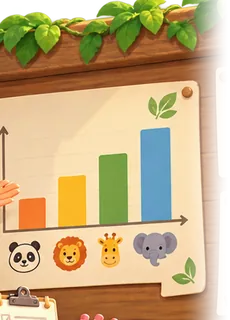
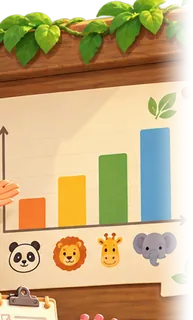
Opgavescenerne skærer ikke længere gennem figurerne
- Zoo-uret: Liv sidder klemt mellem tigeren og løven, så udsnittene skar
  gennem hende og løvens manke (og tog en stump kød med). Nu vises hele
  gruppen – ur, lampe, tiger, Liv, løve og skilt – som én samlet tegning med
  billedets egne kanter; anden variant er uret og foderspanden.
- Indgangen: den første variant er hele porten med Liv og flamingoerne
  samlet; flamingoen i den anden variant står rent ved portstolpen.
- Rettet stumper ved kanterne: Livs fisk (Pingvinbassinet), foderkasserne
  bag giraffen og huskelisten bag pandaen.
- En variant kan nu være én samlet tegning (kun højre side), som må fylde
  båndet; e2e-tjekket af scenen håndterer begge slags.

diff --git a/sw.js b/sw.js
@@ -1,8 +1,8 @@
 // Matematik-Zoo som webapp: appens filer gemmes på enheden, så den starter med det samme
 // og virker uden internet. VERSION og FILES (sti → indholdshash) skrives af tools/deploy.sh.
-const VERSION = '20261005154736';
+const VERSION = '20261005182638';
 const FILES = {
-"css/style.css": "913dcd3c6c",
+"css/style.css": "67b5c844b2",
 "icon-192.png": "8f205bffb7",
 "icon-512.png": "3f4e2cf3bb",
 "icon.png": "cd7043bac8",
@@ -157,12 +157,12 @@ const FILES = {
 "img/task/algebra-1r.webp": "d8592f8779",
 "img/task/algebra-2l.webp": "7cd623451b",
 "img/task/algebra-2r.webp": "25cc06e4e6",
-"img/task/brok-1l.webp": "d2069aef6d",
-"img/task/brok-1r.webp": "7d790514f0",
+"img/task/brok-1l.webp": "0578604174",
+"img/task/brok-1r.webp": "1cf65e9400",
 "img/task/brok-2l.webp": "22253f8a8b",
 "img/task/brok-2r.webp": "a29766c361",
-"img/task/data-1l.webp": "dc489ad109",
-"img/task/data-1r.webp": "6ad7658856",
+"img/task/data-1l.webp": "9eac5c8738",
+"img/task/data-1r.webp": "0406f75bed",
 "img/task/data-2l.webp": "d536496cae",
 "img/task/data-2r.webp": "90e54ea0df",
 "img/task/decimal-1l.webp": "9cd87e5909",
@@ -174,38 +174,36 @@ const FILES = {
 "img/task/division-2l.webp": "0a2df34b39",
 "img/task/division-2r.webp": "0927ba43ec",
 "img/task/gange-1l.webp": "7a48b09ff1",
-"img/task/gange-1r.webp": "a563d3e95d",
+"img/task/gange-1r.webp": "9014d1efea",
 "img/task/gange-2l.webp": "cef0e0987e",
-"img/task/gange-2r.webp": "a7693872e8",
+"img/task/gange-2r.webp": "cead13534d",
 "img/task/geometri-1l.webp": "73c4ecf49a",
 "img/task/geometri-1r.webp": "59d4a51ec5",
 "img/task/geometri-2l.webp": "139d6dd0dd",
 "img/task/geometri-2r.webp": "38779047b4",
-"img/task/maaling-1l.webp": "971145f7ee",
-"img/task/maaling-1r.webp": "c78f66be5c",
+"img/task/maaling-1r.webp": "9a4428a0e7",
 "img/task/maaling-2l.webp": "1ae2518263",
-"img/task/maaling-2r.webp": "ef006ad9ee",
-"img/task/tal-1l.webp": "f4caa0a8cb",
-"img/task/tal-1r.webp": "1b867a0f91",
+"img/task/maaling-2r.webp": "c4f699fd2f",
+"img/task/tal-1r.webp": "aed20958b0",
 "img/task/tal-2l.webp": "039deb28d1",
-"img/task/tal-2r.webp": "8cdca9ff38",
+"img/task/tal-2r.webp": "335c399fe8",
 "img/ui/babyhuset.webp": "3e081d0175",
 "img/ui/lyd.webp": "afa35341d6",
 "img/ui/oevebane.webp": "426efbed3b",
 "img/ui/opgave.webp": "a3fc40a92c",
 "img/ui/zoo-omraade.webp": "95cfcabe7c",
 "img/ui/zoo-runden.webp": "e717e3975d",
-"index.html": "48144c329c",
-"js/app.js": "f4ae1081ba",
-"js/curriculum.js": "fd5206ffe4",
-"js/engine.js": "c28570641a",
+"index.html": "13f32863dc",
+"js/app.js": "ea118b1a5e",
+"js/curriculum.js": "0ef2fd4af7",
+"js/engine.js": "8dbac08ccd",
 "js/fx.js": "d4374ab279",
-"js/map.js": "a5f613f665",
-"js/scene.js": "d30d69e6af",
+"js/map.js": "f73516b725",
+"js/scene.js": "34d761f3de",
 "js/store.js": "e60eddfa18",
 "js/util.js": "183e6761c8",
 "js/visuals.js": "17d49c825e",
-"js/zoo.js": "7351065926",
+"js/zoo.js": "2a9b9e7bfa",
 "manifest.webmanifest": "58cc6e90f1"
 };
 

diff --git a/js/zoo.js b/js/zoo.js
@@ -1,9 +1,9 @@
 // Zoo-universet: figurer, dyreunger, områder, niveauer og beskeder.
 // Se univers-zoo.md. Historien vises kun MELLEM opgaverne – aldrig mens der regnes.
 
-import { AREAS, FACTS } from './curriculum.js?v=20261005154736';
-import * as E from './engine.js?v=20261005154736';
-import { today } from './util.js?v=20261005154736';
+import { AREAS, FACTS } from './curriculum.js?v=20261005182638';
+import * as E from './engine.js?v=20261005182638';
+import { today } from './util.js?v=20261005182638';
 
 // Figurernes tegninger: ansigt (talebobler og kortet) og helfigur (missionernes scener).
 // Bodil har en buste (introen og kortet). Emojien bruges kun som reserve, hvis en tegning mangler.
@@ -35,10 +35,21 @@ export const SCENES = {
 // Opgaveskærmenes scene pr. område (Batch 1, img/task/): kun miljø – opgaven står altid under.
 // Hver variant er [venstre, højre]: dyr og ting, der kigger ind fra hver sin kant af båndet i båndets højde,
 // så de aldrig zoomes ind, uanset hvor bredt båndet er. Opgaverne skifter mellem områdets to varianter.
-// Billederne viser Liv; i områder med en anden figur er udsnittene kun dyr og ting.
+// Kan et billede ikke deles uden at skære gennem en figur (indgangen, Zoo-uret), er varianten én samlet
+// tegning i højre side ('r'). Billederne viser Liv; i områder med en anden figur er udsnittene kun dyr og ting.
 // (Udsnittene laves af tools/opgavescener/ ud fra billeder-raa/batch1-opgavescener/.)
-export const TASK_SCENES = Object.fromEntries(['tal', 'gange', 'division', 'brok', 'decimal', 'geometri', 'maaling', 'data', 'algebra']
-  .map((a) => [a, [1, 2].map((n) => [`img/task/${a}-${n}l.webp`, `img/task/${a}-${n}r.webp`])]));
+const scene = (a, n, sides = 'lr') => ['l', 'r'].map((s) => (sides.includes(s) ? `img/task/${a}-${n}${s}.webp` : null));
+export const TASK_SCENES = {
+  tal: [scene('tal', 1, 'r'), scene('tal', 2)],
+  gange: [scene('gange', 1), scene('gange', 2)],
+  division: [scene('division', 1), scene('division', 2)],
+  brok: [scene('brok', 1), scene('brok', 2)],
+  decimal: [scene('decimal', 1), scene('decimal', 2)],
+  geometri: [scene('geometri', 1), scene('geometri', 2)],
+  maaling: [scene('maaling', 1, 'r'), scene('maaling', 2)],
+  data: [scene('data', 1), scene('data', 2)],
+  algebra: [scene('algebra', 1), scene('algebra', 2)],
+};
 
 // Ekstra zoo-indhold pr. pensumområde (id'erne matcher AREAS i curriculum.js)
 // intro[i] og done[i] er starten og slutningen på tasks[i] ({who} = missionens figur)

diff --git a/js/app.js b/js/app.js
@@ -1,13 +1,13 @@
 // Matematik-Zoo – skærme og interaktion.
 
-import { AREAS, SKILLS, ALL_SKILLS, PRACTICE_SETS, FACTS, factProblem } from './curriculum.js?v=20261005154736';
-import * as E from './engine.js?v=20261005154736';
-import * as Z from './zoo.js?v=20261005154736';
-import { zooGate } from './scene.js?v=20261005154736';
-import { zooMap } from './map.js?v=20261005154736';
-import { sfx, setSound, confetti, countUp } from './fx.js?v=20261005154736';
-import { listProfiles, loadState, saveState, deleteProfile, slug, storageMode, flush } from './store.js?v=20261005154736';
-import { esc, fmt, frac, pick, today } from './util.js?v=20261005154736';
+import { AREAS, SKILLS, ALL_SKILLS, PRACTICE_SETS, FACTS, factProblem } from './curriculum.js?v=20261005182638';
+import * as E from './engine.js?v=20261005182638';
+import * as Z from './zoo.js?v=20261005182638';
+import { zooGate } from './scene.js?v=20261005182638';
+import { zooMap } from './map.js?v=20261005182638';
+import { sfx, setSound, confetti, countUp } from './fx.js?v=20261005182638';
+import { listProfiles, loadState, saveState, deleteProfile, slug, storageMode, flush } from './store.js?v=20261005182638';
+import { esc, fmt, frac, pick, today } from './util.js?v=20261005182638';
 
 const app = document.getElementById('app');
 const S = { id: null, state: null, run: null };
@@ -911,10 +911,11 @@ function taskScene(task, i) {
   const sc = task.kind !== 'warm' && Z.TASK_SCENES[ALL_SKILLS[task.skill]?.area];
   if (!sc) return '';
   const [l, r] = sc[i % sc.length];
-  return `<div class="task-scene" aria-hidden="true"><img class="ts-l" src="${l}" alt="" draggable="false"><img class="ts-r" src="${r}" alt="" draggable="false"></div>`;
+  const img = (src, cls) => (src ? `<img class="${cls}" src="${src}" alt="" draggable="false">` : '');
+  return `<div class="task-scene" aria-hidden="true">${img(l, 'ts-l')}${img(r, 'ts-r')}</div>`;
 }
 // Hent kun det aktuelle områdes scener på forhånd
-const preloadScene = (areaId) => (Z.TASK_SCENES[areaId] || []).flat().forEach((src) => { new Image().src = src; });
+const preloadScene = (areaId) => (Z.TASK_SCENES[areaId] || []).flat().filter(Boolean).forEach((src) => { new Image().src = src; });
 
 function renderTask(block, task) {
   const run = S.run;

diff --git a/js/engine.js b/js/engine.js
@@ -7,8 +7,8 @@
 //  - Næste færdighed i et område låses op, når den forrige er sikker.
 //  - Gangetabellen kører Leitner-kasser pr. fakta; nye fakta blandes ind blandt kendte.
 
-import { AREAS, SKILLS, ALL_SKILLS, FACTS, factProblem } from './curriculum.js?v=20261005154736';
-import { today, addDays, daysBetween, weekStart, shuffle, parseNum } from './util.js?v=20261005154736';
+import { AREAS, SKILLS, ALL_SKILLS, FACTS, factProblem } from './curriculum.js?v=20261005182638';
+import { today, addDays, daysBetween, weekStart, shuffle, parseNum } from './util.js?v=20261005182638';
 
 export const STATUS = { NY: 'ny', OEVER: 'øver', SIKKER: 'sikker', MESTRET: 'mestret' };
 const HIST_MAX = 40;

diff --git a/css/style.css b/css/style.css
@@ -947,6 +947,7 @@ th { color: var(--ink-2); font: 600 .74rem var(--font-head); text-transform: upp
 .task-scene img { position: absolute; bottom: 0; height: 100%; width: auto; max-width: 48%; object-fit: cover; }
 .task-scene .ts-l { left: 0; object-position: right bottom; }
 .task-scene .ts-r { right: 0; object-position: left bottom; }
+.task-scene img:only-child { max-width: 100%; } /* én samlet tegning må fylde hele båndet */
 /* Én kolonne (telefon og iPad stående): lavere bånd – og ingen scene, når opgaven har sin egen tegning,
    så tastaturet ikke skubbes ned. Valgopgaver med tegning står altid i én kolonne. */
 @media (max-width: 899px), (max-aspect-ratio: 1/1) {

diff --git a/js/curriculum.js b/js/curriculum.js
@@ -4,8 +4,8 @@
 //   { prompt, visual?, input: 'number'|'fraction'|'choice'|'qr', answer, choices?, unit?, explain, explainVisual? }
 // level: 1 = let, 2 = middel, 3 = fuld 4.-klasse-niveau.
 
-import { ri, pick, chance, shuffle, fmt, fmtDec, fmtKr, frac, box, NAMES, gcd, lcm } from './util.js?v=20261005154736';
-import * as V from './visuals.js?v=20261005154736';
+import { ri, pick, chance, shuffle, fmt, fmtDec, fmtKr, frac, box, NAMES, gcd, lcm } from './util.js?v=20261005182638';
+import * as V from './visuals.js?v=20261005182638';
 
 const pow10 = (p) => 10 ** p;
 const PLACE = ['enernes', 'tiernes', 'hundredernes', 'tusindernes', 'titusindernes'];

diff --git a/index.html b/index.html
@@ -15,10 +15,10 @@
   <link rel="preconnect" href="https://fonts.googleapis.com">
   <link rel="preconnect" href="https://fonts.gstatic.com" crossorigin>
   <link href="https://fonts.googleapis.com/css2?family=Fredoka:wght@500;600&family=Nunito:wght@500;700;800;900&display=swap" rel="stylesheet">
-  <link rel="stylesheet" href="css/style.css?v=20261005154736">
+  <link rel="stylesheet" href="css/style.css?v=20261005182638">
 </head>
 <body>
   <main id="app" aria-live="polite"></main>
-  <script type="module" src="js/app.js?v=20261005154736"></script>
+  <script type="module" src="js/app.js?v=20261005182638"></script>
 </body>
 </html>

diff --git a/js/map.js b/js/map.js
@@ -3,7 +3,7 @@
 // dæmpet (under opbygning) → normal (åben) → lys og stjerner (populær, stjerne, guld).
 // Kortet tegner kun data; klik håndteres i app.js via .m-tap og data-area/-task/-baby/-bodil.
 
-import { esc } from './util.js?v=20261005154736';
+import { esc } from './util.js?v=20261005182638';
 
 const MW = 1672, MH = 941; // grundkortets størrelse i pixels (img/map/zoo-map-base.webp)
 const px = (v, of) => `${((100 * v) / of).toFixed(2)}%`;

diff --git a/js/scene.js b/js/scene.js
@@ -1,6 +1,6 @@
 // Illustreret zoo-port til forsiden (ren SVG, skalerer til alle skærme).
 
-import { esc } from './util.js?v=20261005154736';
+import { esc } from './util.js?v=20261005182638';
 
 export function zooGate(name, { animals = [], festive = false, art = null } = {}) {
   const len = [...name].length;
